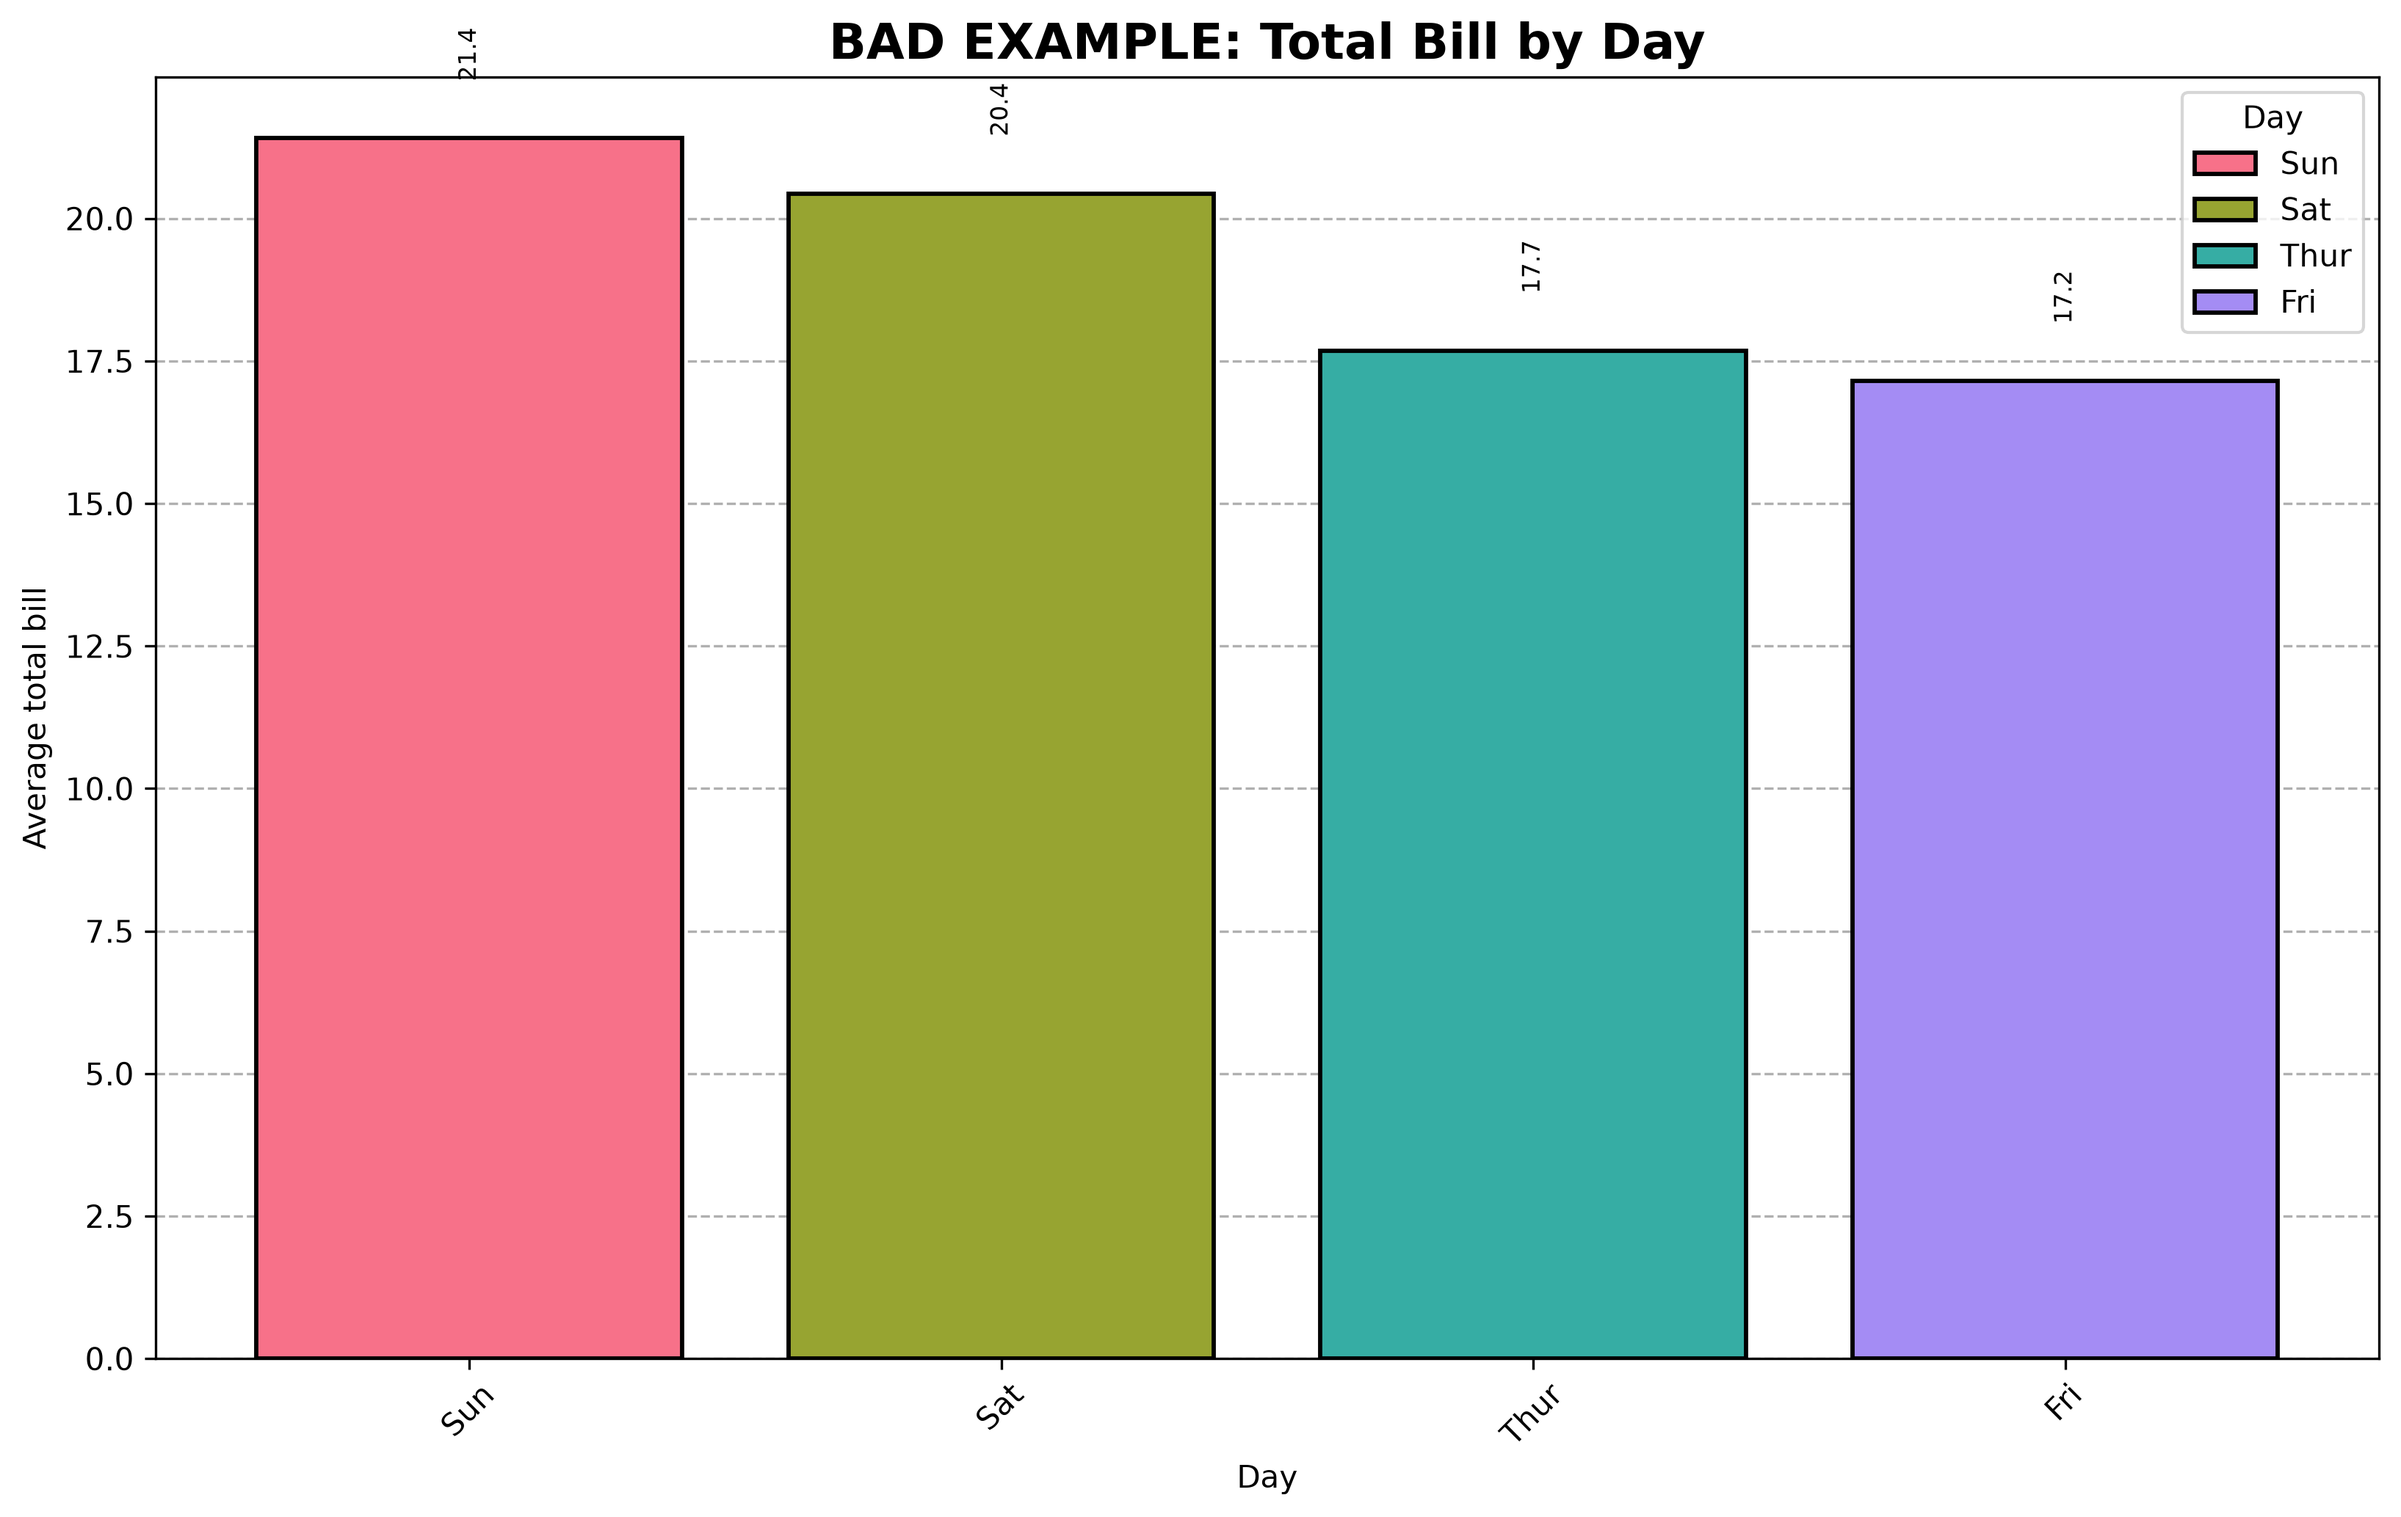
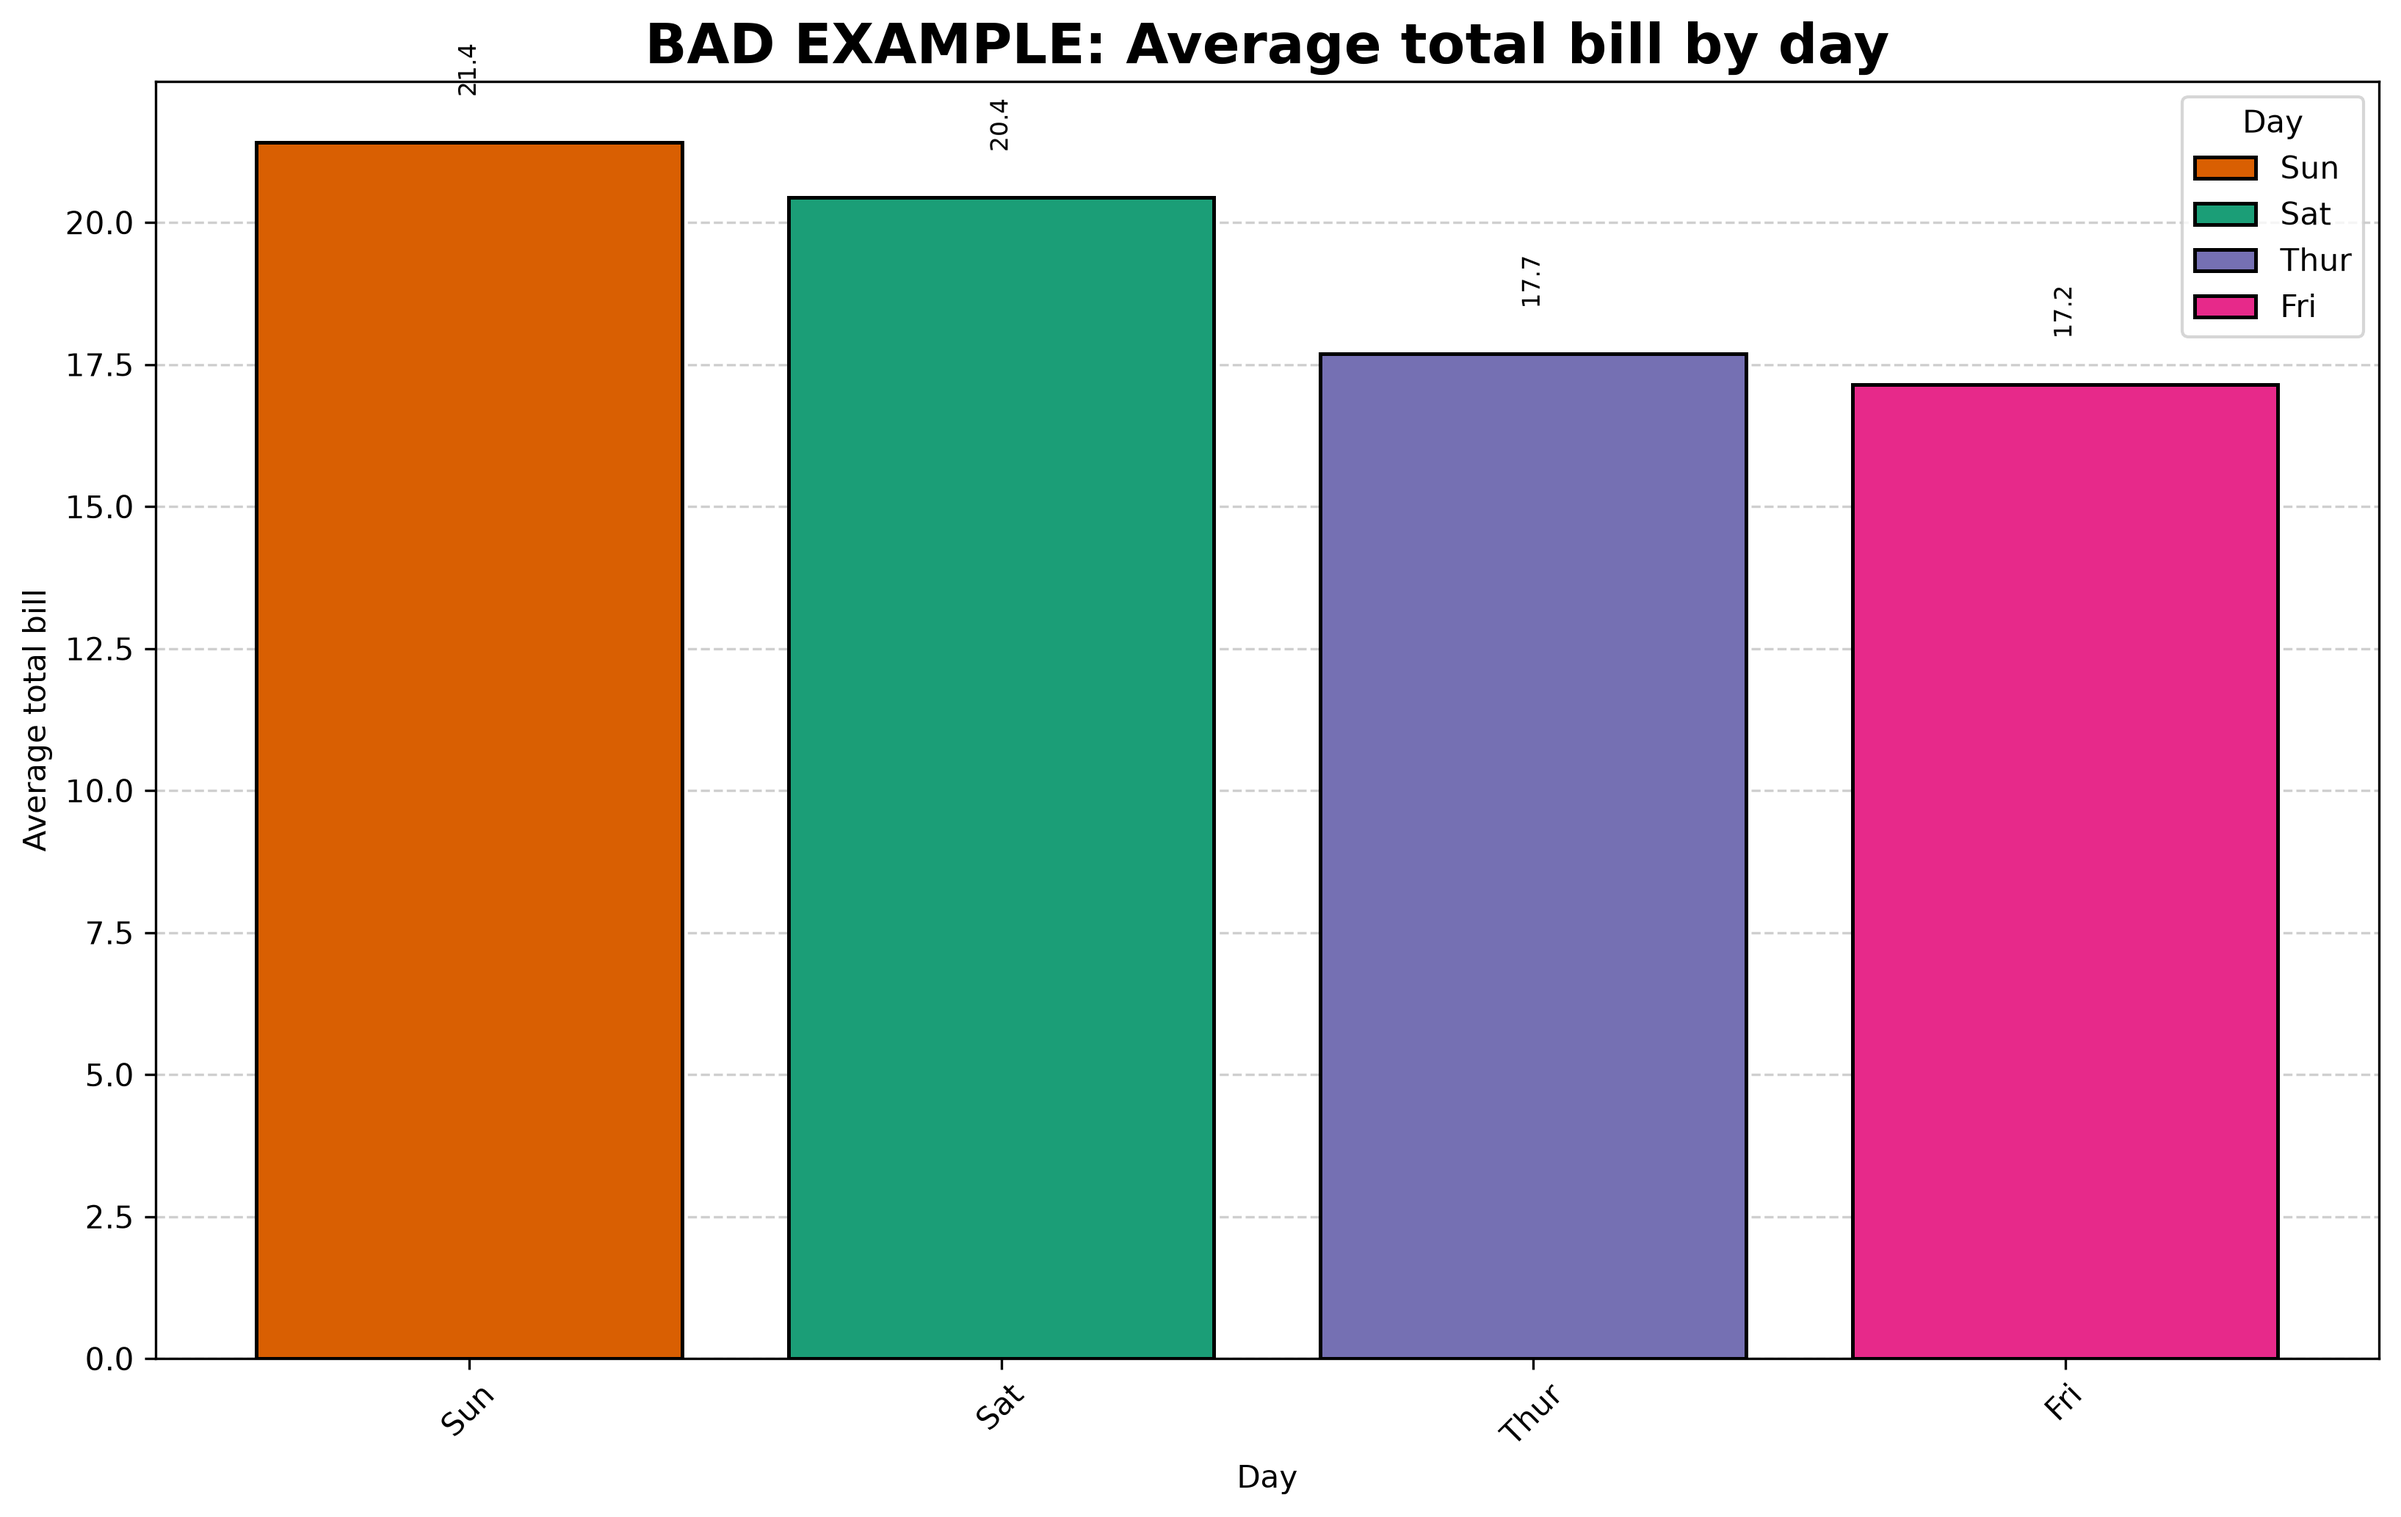
Align weak two with official task instructions

diff --git a/weak_two/weak_two.py b/weak_two/weak_two.py
@@ -2,7 +2,6 @@ from pathlib import Path
 
 import matplotlib.pyplot as plt
 import pandas as pd
-import seaborn as sns
 
 ROOT = Path(__file__).resolve().parent.parent
 DATA_DIR = ROOT / "data"
@@ -21,85 +20,149 @@ def load_tips_data() -> pd.DataFrame:
     return pd.read_csv(DATA_FILE)
 
 
-def make_bad_example(df: pd.DataFrame) -> None:
-    summary = df.groupby("day", as_index=False)["total_bill"].mean().sort_values("total_bill", ascending=False)
+def prepare_summary(df: pd.DataFrame) -> pd.DataFrame:
+    return (
+        df.groupby("day", as_index=False)["total_bill"]
+        .mean()
+        .sort_values("total_bill", ascending=False)
+        .reset_index(drop=True)
+    )
 
+
+def make_bad_example(summary: pd.DataFrame) -> None:
     fig, ax = plt.subplots(figsize=(11, 7))
-    colors = sns.color_palette("husl", n_colors=len(summary))
+    colors = ["#d95f02", "#1b9e77", "#7570b3", "#e7298a"]
     bars = ax.bar(
         summary["day"],
         summary["total_bill"],
         color=colors,
         edgecolor="black",
-        linewidth=1.4,
+        linewidth=1.2,
     )
 
-    ax.set_title("BAD EXAMPLE: Total Bill by Day", fontsize=16, fontweight="bold")
+    ax.set_title("BAD EXAMPLE: Average total bill by day", fontsize=18, fontweight="bold")
     ax.set_xlabel("Day")
     ax.set_ylabel("Average total bill")
-    ax.grid(True, axis="y", linestyle="--", linewidth=0.8)
+    ax.grid(True, axis="y", linestyle="--", linewidth=0.8, alpha=0.6)
     ax.set_axisbelow(True)
     ax.legend(bars, summary["day"], title="Day", loc="upper right")
-
     for bar, value in zip(bars, summary["total_bill"]):
         ax.text(
             bar.get_x() + bar.get_width() / 2,
-            value + 1,
+            value + 0.8,
             f"{value:.1f}",
             ha="center",
             va="bottom",
             rotation=90,
             fontsize=8,
         )
-
-    plt.xticks(rotation=45)
+    ax.tick_params(axis="x", rotation=45)
     fig.tight_layout()
     fig.savefig(OUTPUT_DIR / "bad_example.png", dpi=300, bbox_inches="tight")
     plt.close(fig)
 
 
-def make_clean_example(df: pd.DataFrame) -> None:
-    summary = df.groupby("day", as_index=False)["total_bill"].mean().sort_values("total_bill", ascending=False)
+def make_five_panel(summary: pd.DataFrame) -> None:
+    fig, axes = plt.subplots(1, 5, figsize=(18, 4), sharey=True)
+    steps = [
+        ("legend removed", "remove legend"),
+        ("frame and extra grid removed", "remove frame + extra grid"),
+        ("one colour used", "single hue"),
+        ("sorted bars", "sort bars by value"),
+        ("clean final view", "label only the key message"),
+    ]
 
+    for idx, ax in enumerate(axes):
+        data = summary.copy()
+        if idx == 3:
+            data = data.sort_values("total_bill", ascending=True).reset_index(drop=True)
+        if idx >= 3:
+            ax.bar(data["day"], data["total_bill"], color="#4c78a8", edgecolor="black")
+        else:
+            ax.bar(data["day"], data["total_bill"], color=["#d95f02", "#1b9e77", "#7570b3", "#e7298a"], edgecolor="black")
+
+        ax.set_title(steps[idx][0], fontsize=10)
+        ax.set_xlabel("Day")
+        if idx == 0:
+            ax.set_ylabel("Average total bill")
+        else:
+            ax.set_ylabel("")
+        if idx in (0, 1):
+            ax.grid(True, axis="y", linestyle="--", alpha=0.5)
+        else:
+            ax.grid(False)
+        if idx in (1, 2, 3, 4):
+            ax.spines["top"].set_visible(False)
+            ax.spines["right"].set_visible(False)
+        if idx == 4:
+            ax.set_title("clean final view", fontsize=10)
+            ax.set_ylabel("Average total bill")
+
+    fig.suptitle("Five-step reduction of extraneous load", fontsize=14, fontweight="bold")
+    fig.tight_layout(rect=[0, 0, 1, 0.96])
+    fig.savefig(OUTPUT_DIR / "five_panel.png", dpi=300, bbox_inches="tight")
+    plt.close(fig)
+
+
+def make_clean_example(summary: pd.DataFrame) -> None:
     fig, ax = plt.subplots(figsize=(10, 5))
-    sns.barplot(
-        data=summary,
-        x="day",
-        y="total_bill",
-        color="#4c78a8",
-        ax=ax,
-    )
-
+    bars = ax.bar(summary["day"], summary["total_bill"], color="#4c78a8")
     ax.set_title("Average total bill is highest on Saturday and Sunday", loc="left", fontsize=14)
     ax.set_xlabel("Day of week")
     ax.set_ylabel("Average total bill ($)")
     ax.grid(False)
     for side in ("top", "right"):
         ax.spines[side].set_visible(False)
+    for bar, value in zip(bars, summary["total_bill"]):
+        ax.text(
+            bar.get_x() + bar.get_width() / 2,
+            value + 0.6,
+            f"{value:.1f}",
+            ha="center",
+            va="bottom",
+            fontsize=9,
+        )
     fig.tight_layout()
     fig.savefig(OUTPUT_DIR / "clean_example.png", dpi=300, bbox_inches="tight")
     plt.close(fig)
+
+
+def write_reasoning_file() -> None:
+    report = """# Weak Two reasoning
+
+## What the bad chart does wrong
+
+The overloaded chart adds many extraneous elements: a legend, colour used for every category, gridlines, and labels on every bar. That creates more cognitive load than the data itself needs. A reader must decode the legend, compare categories, and identify the key message while also managing the chart's visual noise.
+
+## Why the clean chart is easier
+
+The corrected version keeps one visual question: which day has the highest average bill? The design removes decoration, restricts the colour to one role, and keeps the message in a stronger, more readable form. This raises the data-ink ratio because more of the ink is used for the actual numbers and less for decoration.
+
+## Week 2 rule used
+
+The design goal is to reduce extraneous load and improve readability without hiding the real pattern.
+"""
+    (Path(__file__).resolve().parent / "weak_two_report.md").write_text(report, encoding="utf-8")
 
 
 def summarize_reasoning() -> None:
     explanation = """
     Week 2 visual-perception insight:
 
-    The bad example adds many extraneous elements: a legend for every bar, gridlines in both directions,
-    repeated labels, and a design that makes the reader decode color and text instead of noticing the main message.
-    This raises cognitive load because the reader must process many chunks at once.
+    The BAD EXAMPLE chart adds extraneous load: a legend, many colours, heavy gridlines, and repeated labels. The reader has to decode the chart instead of reading the main message, so the working-memory cost rises.
 
-    The cleaner chart removes the noise, keeps a single message, and presents the data with fewer visual tasks.
-    The result is a higher data-ink ratio because more visual marks are used to encode the real values and fewer
-    marks are used for decoration.
+    The cleaner design removes the unnecessary marks, uses one consistent colour, and keeps the title focused on the finding. This is a better use of data-ink because more of the drawing carries information, and less is just decoration.
     """
     print(explanation)
 
 
 def main() -> None:
     df = load_tips_data()
-    make_bad_example(df)
-    make_clean_example(df)
+    summary = prepare_summary(df)
+    make_bad_example(summary)
+    make_five_panel(summary)
+    make_clean_example(summary)
+    write_reasoning_file()
     summarize_reasoning()
     print(f"Saved charts to: {OUTPUT_DIR}")
 

diff --git a/README.md b/README.md
@@ -10,11 +10,14 @@ This repository contains the completed weak tasks for the Data Visualization cou
 ## Weak Two task
 This repository also includes the completed Week 2 task named "Weak Two".
 
+The assignment uses the easy dataset `tips.csv` from the Week 2 visual-perception brief. This dataset is simple and readable, and it suits the Week 2 goal of showing how cognitive load, clutter, and data-ink decisions change the reader's experience.
+
 ### Dataset
 The task uses the dataset `tips.csv` from the visual-perception tasks.
 
 ### Folder
 - `weak_two/` — complete solution and chart generation script
+- `weak_two/` — Week 2 task files and generated outputs
 
 ## Run the weak-two task
 
@@ -25,3 +28,10 @@ python weak_two/weak_two.py
 
 The script downloads the dataset if needed and saves the before/after charts in the `weak_two/outputs/` folder.
 
+## Assignment alignment
+
+This implementation follows the Week 2 task logic for cognitive load and data-ink ratio:
+
+- a deliberately overloaded chart labeled `BAD EXAMPLE`
+- a clearer redesign with fewer visual tasks
+- a short explanation of extraneous load and why the cleaner chart is easier to read

diff --git a/weak_two/weak_two_report.md b/weak_two/weak_two_report.md
@@ -1,0 +1,13 @@
+# Weak Two reasoning
+
+## What the bad chart does wrong
+
+The overloaded chart adds many extraneous elements: a legend, colour used for every category, gridlines, and labels on every bar. That creates more cognitive load than the data itself needs. A reader must decode the legend, compare categories, and identify the key message while also managing the chart's visual noise.
+
+## Why the clean chart is easier
+
+The corrected version keeps one visual question: which day has the highest average bill? The design removes decoration, restricts the colour to one role, and keeps the message in a stronger, more readable form. This raises the data-ink ratio because more of the ink is used for the actual numbers and less for decoration.
+
+## Week 2 rule used
+
+The design goal is to reduce extraneous load and improve readability without hiding the real pattern.
